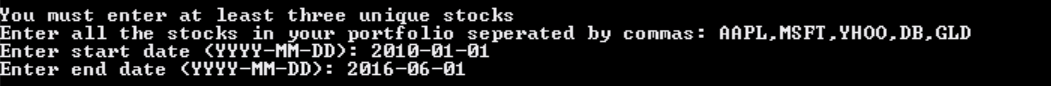
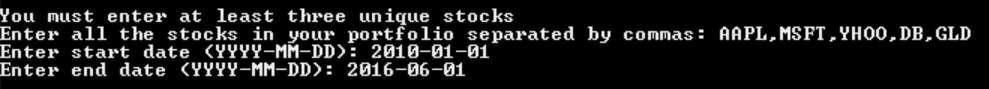
Fixed comments and changed screenshot

Changed region(s): [[0.0, 0.093, 1.0, 0.6744], [0.0, 0.6977, 0.4853, 0.8837], [0.0, 0.093, 0.0303, 0.1163]]

diff --git a/stockUtils.py b/stockUtils.py
@@ -24,7 +24,7 @@ def initPortfolio(numberOfAssets, dfDailyReturns):
 	dailyReturns = dfDailyReturns
 
 '''
-Use Yahoo Finance API to retreive CSV file for daily stock data 
+Use Yahoo Finance API to retrieve CSV file for daily stock data 
 Returns daily Adj Close values to pandas DataFrame
 '''
 def get_data(symbols, dates):
@@ -71,7 +71,7 @@ def statistics(weights):
 	return np.array([expectedPortRet,expectedPortVolit,sharpeRatio])
 
 '''
-Plots results of various random portfolio weights (monte carlo simulation), the optomized portfolios, the efficent frontier 
+Plots results of various random portfolio weights (Monte Carlo simulation), the optimized portfolios, the efficient frontier 
 
 '''
 def plot_data(numberOfSims, targetRets, targetVolits, resultVar, resultSharpe):
@@ -97,16 +97,16 @@ def plot_data(numberOfSims, targetRets, targetVolits, resultVar, resultSharpe):
 	expectedPortVolit = np.array(expectedPortVolit)
 
 	#Plot results of the simulation and optimization
-	#Colour the data points based on their sharpe ratio (simplified for risk free rate of return = 0)
+	#Colour the data points based on their Sharpe ratio (simplified for risk free rate of return = 0)
 	plt.figure(figsize=(8, 4))
 
 	#Random Portfolios from the simulation
 	plt.scatter(expectedPortVolit, expectedPortRet, c = expectedPortRet / expectedPortVolit, marker='o')
-	#The Efficent Frontier
+	#The Efficient Frontier
 	plt.scatter(targetVolits, targetRets, c = targetRets / targetVolits, marker = 'x')
 	#Min Variance Portfolio shown as yellow star
 	plt.plot(statistics(resultVar['x'])[1], statistics(resultVar['x'])[0], 'y*', markersize = 20.0)
-	#Max Sharpe Ratio to meet target return with lowest volitality shown as red star
+	#Max Sharpe Ratio to meet target return with lowest volatility shown as red star
 	plt.plot(statistics(resultSharpe['x'])[1], statistics(resultSharpe['x'])[0], 'r*', markersize = 20.0)
 
 	plt.grid(True)
@@ -130,14 +130,14 @@ def optimize_portfolio(numberOfSims):
 	bounds = tuple((0, 1) for x in range(noa))
 	constraints = ({'type': 'eq', 'fun': lambda x: (np.sum(x) - 1)})
 
-	#Use evenly distributed weights as the inital starting point 
+	#Use evenly distributed weights as the initial starting point 
 	initWeights = noa * [1.0 / noa]
 	
-	#optimize portoflios
+	#optimize portfolios
 	optSharpe = spo.minimize(min_func_sharpe, initWeights, method = 'SLSQP', bounds = bounds, constraints = constraints)
 	optVariance = spo.minimize(min_func_variance, initWeights, method = 'SLSQP', bounds = bounds, constraints = constraints)
 
-	#Building Efficent Frontier
+	#Building Efficient Frontier
 	targetRets = np.linspace(0.0,(statistics(optSharpe['x'])[0]),50)
 	targetVolits = []
 	for targetRet in targetRets:
@@ -149,17 +149,17 @@ def optimize_portfolio(numberOfSims):
 
 		res = spo.minimize(min_func_variance, initWeights, method = 'SLSQP', bounds = bounds, constraints = cons)
 
-		#Creating points for efficent frontier
+		#Creating points for efficient frontier
 		targetVolits.append(res['fun'])
 
-	#resultSharpe now holds the result of weights for the portfolio that has the highest sharpe ratio FOR the specified target
+	#resultSharpe now holds the result of weights for the portfolio that has the highest Sharpe ratio FOR the specified target
 	targetVolits = np.array(targetVolits)
 
 	plot_data(numberOfSims, targetRets, targetVolits, optVariance, optSharpe)
 	return optVariance['x'].round(4), optSharpe['x'].round(4)
 
 '''
-The first function we want to minimize is the negative of the sharpe ratio. We want to find the max sharpe ratio 
+The first function we want to minimize is the negative of the Sharpe ratio. We want to find the max Sharpe ratio 
 The second is the volatility of the portfolio
 '''
 def min_func_sharpe(weights): 

diff --git a/Optimizer.py b/Optimizer.py
@@ -10,7 +10,7 @@ if (__name__ == "__main__"):
 	#Have to have min. 3 stocks and no duplicates
 	while ((len(symbols) < 3) or len(symbols) != len(set(symbols))):
 		print("\nYou must enter at least three unique stocks")
-		rawInput = raw_input("Enter all the stocks in your portfolio seperated by commas: ")
+		rawInput = raw_input("Enter all the stocks in your portfolio separated by commas: ")
 		symbols = rawInput.split(',')
 
 	#Obtain data from these dates
